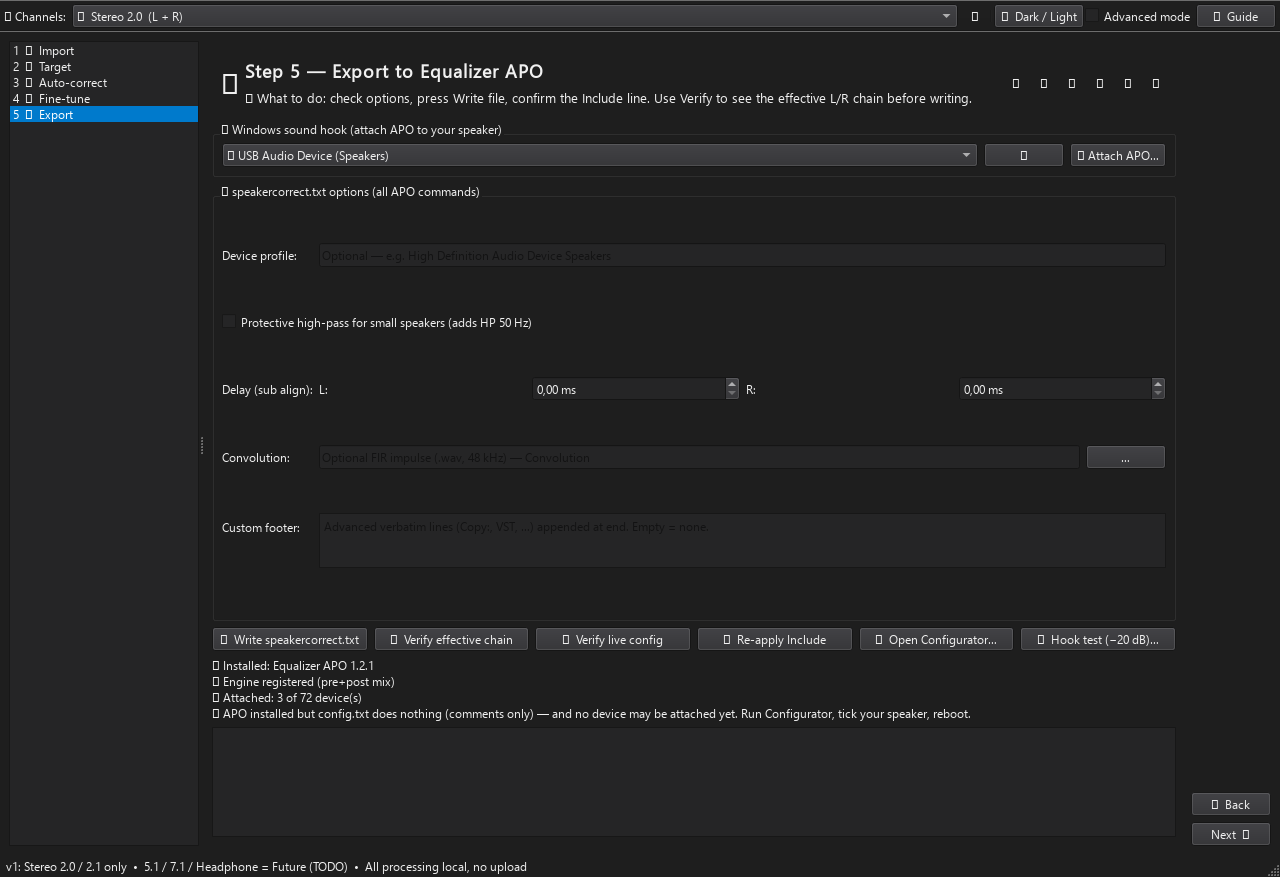
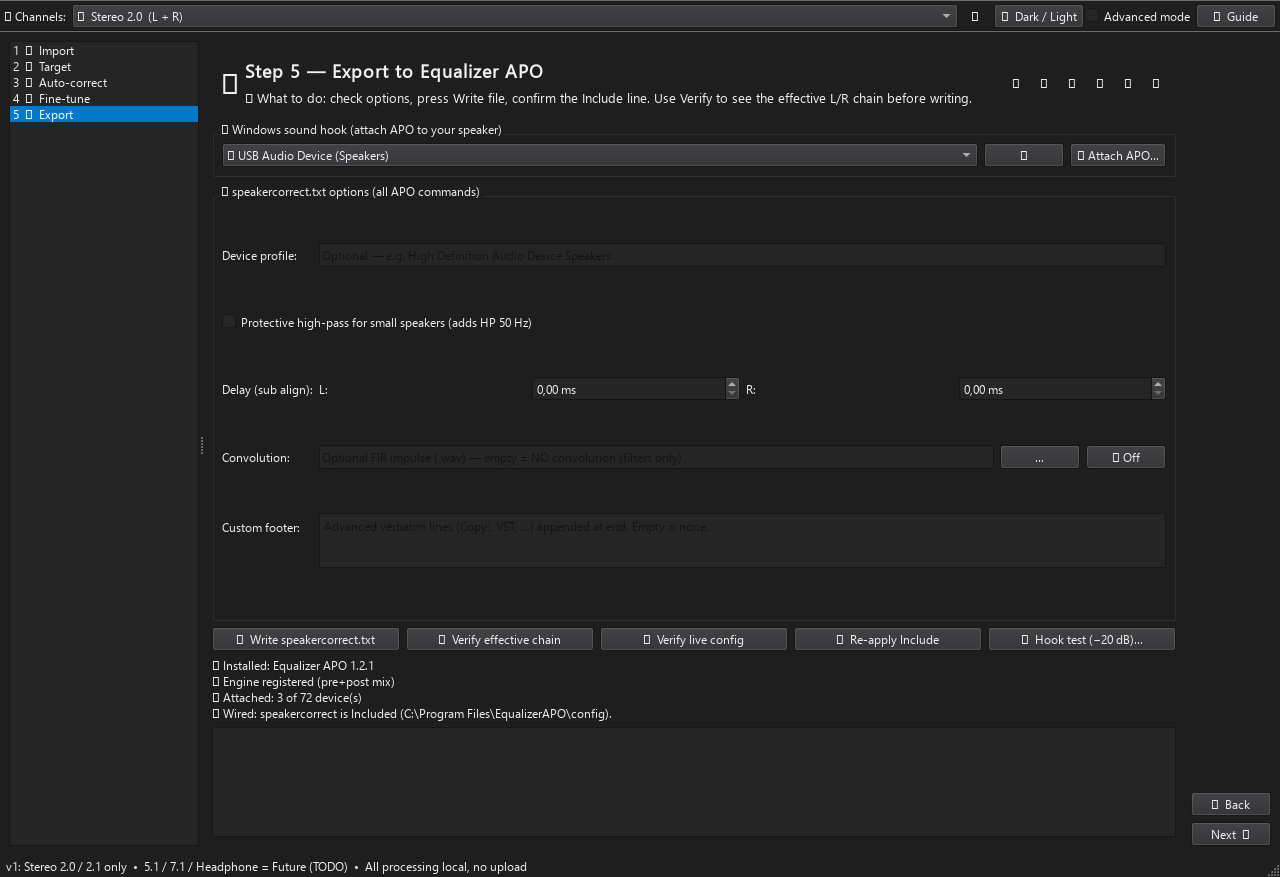
fix(bypass): file output honors A/B + preamp in curve + guard announcements

diff --git a/src/harmo_dsp/ui/pages.py b/src/harmo_dsp/ui/pages.py
@@ -418,7 +418,7 @@ class FineTunePage(QWidget):
         row = QHBoxLayout()
         self.btn_ab = QPushButton("🔀  A/B: bypass all")
         self.btn_ab.setCheckable(True)
-        self.btn_ab.setToolTip("Compare corrected vs original sound prediction")
+        self.btn_ab.setToolTip("Bypass everything: preview goes flat AND file output (Live/Write) goes bit-transparent.\nSession bands are kept — untoggle to restore.")
         self.btn_reopt = QPushButton("↻  Re-optimize around manual bands")
         self.btn_reopt.setToolTip("Auto-solver respects locked bands")
         row.addWidget(self.btn_ab)
@@ -485,8 +485,12 @@ class FineTunePage(QWidget):
         self.btn_admin.setToolTip("Relaunch this app elevated so Live mode can write into Program Files (like Peace, which requires admin).")
         self.btn_admin.clicked.connect(self._restart_as_admin)
         self.btn_admin.setVisible(False)
+        self.preamp_note = QLabel("")
+        self.preamp_note.setStyleSheet("font-size: 11px; opacity: 0.8;")
+        self.preamp_note.setToolTip("Who set preamp last: you (manual) or the anti-clip guard.")
         lrow.addWidget(self.btn_live)
         lrow.addWidget(self.btn_admin)
+        lrow.addWidget(self.preamp_note)
         lrow.addStretch(1)
         lay.addLayout(lrow)
         self._live_timer = None
@@ -601,13 +605,17 @@ class FineTunePage(QWidget):
         from ..dsp.clip_guard import suggest_preamp
         _, bands, _, _, _ = self.collect()
         rep = suggest_preamp(bands)
-        target = min(self.preamp.value(), rep["suggest_db"])
+        before = self.preamp.value()
+        target = min(before, rep["suggest_db"])
         self._syncing_preamp = True
         try:
             self.preamp.setValue(target)
             self.preamp_slider.setValue(int(round(target * 10)))
         finally:
             self._syncing_preamp = False
+        if target < before - 1e-9:
+            self.preamp_note.setText(
+                f"🛡 guard pulled {before:g} → {target:g} dB (peak {rep['peak_db']:+.1f})")
         note = "; ".join(rep["notes"][:2])
         tip = (f"Worst peak L {rep['peak_l']:+.1f} / R {rep['peak_r']:+.1f} dB "
                f"(filters + GraphicEQ + Convolution). Preamp auto-set {rep['suggest_db']:g} dB."
@@ -618,6 +626,7 @@ class FineTunePage(QWidget):
     def _preamp_spin_moved(self):
         if getattr(self, "_syncing_preamp", False):
             return
+        self.preamp_note.setText("manual")
         self._syncing_preamp = True
         try:
             self.preamp_slider.setValue(int(round(self.preamp.value() * 10)))
@@ -628,6 +637,7 @@ class FineTunePage(QWidget):
     def _preamp_slide_moved(self):
         if getattr(self, "_syncing_preamp", False):
             return
+        self.preamp_note.setText("manual")
         self._syncing_preamp = True
         try:
             self.preamp.setValue(self.preamp_slider.value() / 10.0)
@@ -664,7 +674,7 @@ class FineTunePage(QWidget):
         self.apo_preview.setPlainText(txt)
         self.apo_preview.setToolTip("Full speakercorrect.txt preview (Channel L/R blocks). Export writes this file.")
         if self.pred_curve is not None:
-            self.pred_curve.set_bands(bands)
+            self.pred_curve.set_bands(bands, self.preamp.value())
 
 
 class ExportPage(QWidget):
@@ -973,9 +983,16 @@ class ExportPage(QWidget):
         from ..dsp.apo_config import ApoOutput
         from ..dsp.peq import PeqBand
         if self._tune is None:
-            preamp, bands, gl, gr, _ = 0.0, [], None, None, False
+            preamp, bands, gl, gr, bypassed = 0.0, [], None, None, False
         else:
-            preamp, bands, gl, gr, _ = self._tune.collect()
+            preamp, bands, gl, gr, bypassed = self._tune.collect()
+        if bypassed:
+            # A/B bypass = bit-transparent everywhere (preview, Live, Write).
+            # Session bands are kept in memory; un-bypass restores them.
+            return ApoOutput(preamp_db=0.0, bands=[],
+                             delay_ms={"L": self.delay_l.value(),
+                                       "R": self.delay_r.value()},
+                             custom_footer=self.custom.toPlainText())
         bands = list(bands)
         if self.hp.isChecked():
             bands.append(PeqBand(True, "HP", 50, 0, 1.0, 100.0, "all"))
@@ -1207,10 +1224,12 @@ class ExportPage(QWidget):
         if new_text.strip() == cur.strip():
             self.log.appendPlainText("• Include already present — nothing to confirm.")
             return
+        bypassed = self._tune.collect()[4] if self._tune is not None else False
         preview_tail = "\n".join(new_text.splitlines()[-4:])
         ok = QMessageBox.question(
             self, "Confirm Include",
-            f"Add to config.txt (APO reads top to bottom):\n\n{preview_tail}\n\n"
+            ("⚠ A/B bypass is ON — this writes a FLAT file (no correction).\n\n" if bypassed else "")
+            + f"Add to config.txt (APO reads top to bottom):\n\n{preview_tail}\n\n"
             + ("⚠ Peace overwrites config.txt when its own Include is missing.\n"
                "If ours vanishes later, press Re-apply Include." if info["peace_installed"] else ""),
         )

diff --git a/tests/test_monitor_preamp.py b/tests/test_monitor_preamp.py
@@ -72,3 +72,46 @@ def test_preamp_slider_and_switch():
     p.geq._sliders[17].setValue(60)  # +6 dB boost needs only -6
     assert p.preamp.value() == -12.0  # manual safer value respected
     p.close()
+
+
+def test_predicted_curve_includes_preamp():
+    from PySide6.QtWidgets import QApplication
+    from harmo_dsp.ui.monitor import PredictedCurve, LOG_GRID
+    QApplication.instance() or QApplication([])
+    pc = PredictedCurve()
+    pc.set_bands([], preamp_db=-10.0)
+    import numpy as np
+    _, y = pc.curve.getData()
+    assert abs(float(np.mean(y)) - (-10.0)) < 0.5
+    pc.close()
+
+
+def test_guard_pull_is_announced():
+    from PySide6.QtWidgets import QApplication
+    from harmo_dsp.ui.pages import FineTunePage
+    QApplication.instance() or QApplication([])
+    p = FineTunePage()
+    p.preamp_slider.setValue(-50)  # real manual move
+    assert p.preamp_note.text() == "manual"
+    p.preamp_slider.setValue(0)  # back to 0 dB by hand
+    p.geq._sliders[17].setValue(120)  # +12 dB boost -> guard must pull
+    assert p.preamp.value() <= -11.9
+    assert "guard pulled" in p.preamp_note.text()
+    p.close()
+
+
+def test_bypass_renders_bit_transparent():
+    from PySide6.QtWidgets import QApplication
+    from harmo_dsp.ui.main_window import MainWindow
+    from harmo_dsp.dsp.apo_config import render_speakercorrect
+    QApplication.instance() or QApplication([])
+    w = MainWindow()
+    w.page_tune.geq._sliders[17].setValue(60)
+    w.page_tune.btn_ab.setChecked(True)
+    txt = render_speakercorrect(w.page_export._collect_output())
+    assert "Filter:" not in txt and "GraphicEQ:" not in txt
+    assert "Preamp: 0 dB" in txt
+    w.page_tune.btn_ab.setChecked(False)
+    txt2 = render_speakercorrect(w.page_export._collect_output())
+    assert "Filter:" in txt2 or "GraphicEQ:" in txt2  # session kept, restored
+    w.close()

diff --git a/src/harmo_dsp/ui/monitor.py b/src/harmo_dsp/ui/monitor.py
@@ -151,10 +151,10 @@ try:
             self.curve = self.plot.plot(pen=pg.mkPen("#00cc66", width=2))
             lay.addWidget(self.plot)
 
-        def set_bands(self, bands) -> None:
+        def set_bands(self, bands, preamp_db: float = 0.0) -> None:
             from ..dsp.clip_guard import chain_response_db
             try:
-                y = chain_response_db(bands, LOG_GRID)
+                y = chain_response_db(bands, LOG_GRID) + float(preamp_db)
                 self.curve.setData(LOG_GRID, y)
             except Exception:
                 pass
